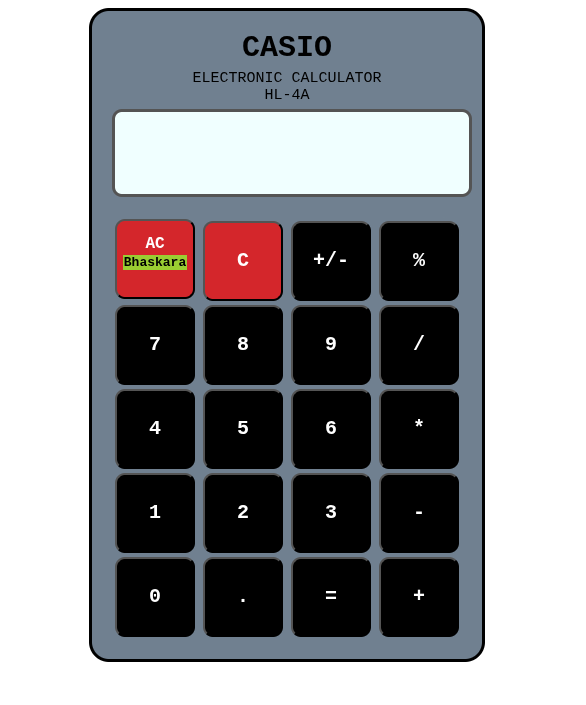
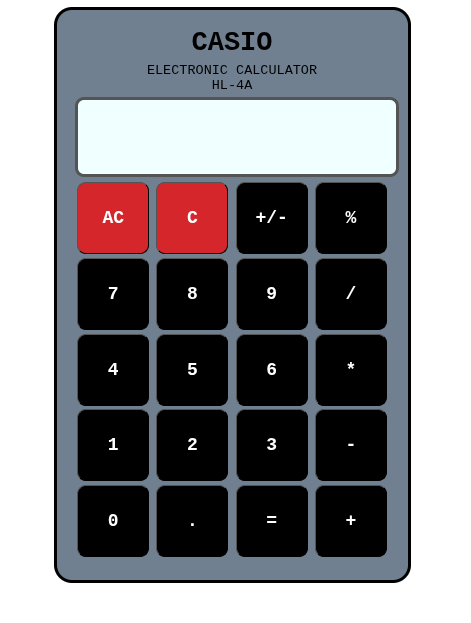
Atualiza a funcionalidade do botão AC para chamar a função limpar e corrige a ordem das funções nos botões

Changed region(s): [[0.0892, 0.0, 0.8917, 0.9454], [0.535, 0.8234, 0.5945, 0.8539]]

diff --git a/calculadora.html b/calculadora.html
@@ -21,15 +21,10 @@
 
         <div style="padding: 0; text-align: center; border: none; background-color: transparent; margin: 4px auto; width: 100%;">
             <!-- Linha 1 -->
-            <button id="AC" class="btn" onclick="apagarUltimo()" ondblclick="bhaskara()">
-                <p style="font-size: medium;">
-                    <strong>AC</strong>
-                    <p style="font-size: small; padding: 0; margin-top: 2px;background-color: yellowgreen;color: black;">
-                        Bhaskara
-                    </p>
-                </p>
+            <button id="AC" class="btn" onclick="limpar()" ondblclick="bhaskara()">
+                <p>AC</p>
             </button>
-            <button id="C" class="btn" onclick="limpar()"><p>C</p></button>
+            <button id="C" class="btn" onclick="apagarUltimo()"><p>C</p></button>
             <!-- <button id="Bhaskara" class="btn" onclick="bhaskara()"><p>Bhaskara</p></button> -->
             <button id="mais-menos" class="btn" onclick="maisMenos()"><p>+/-</p></button>
             <button id="porcentagem" class="btn" onclick="porcentagem()"><p>%</p></button>
